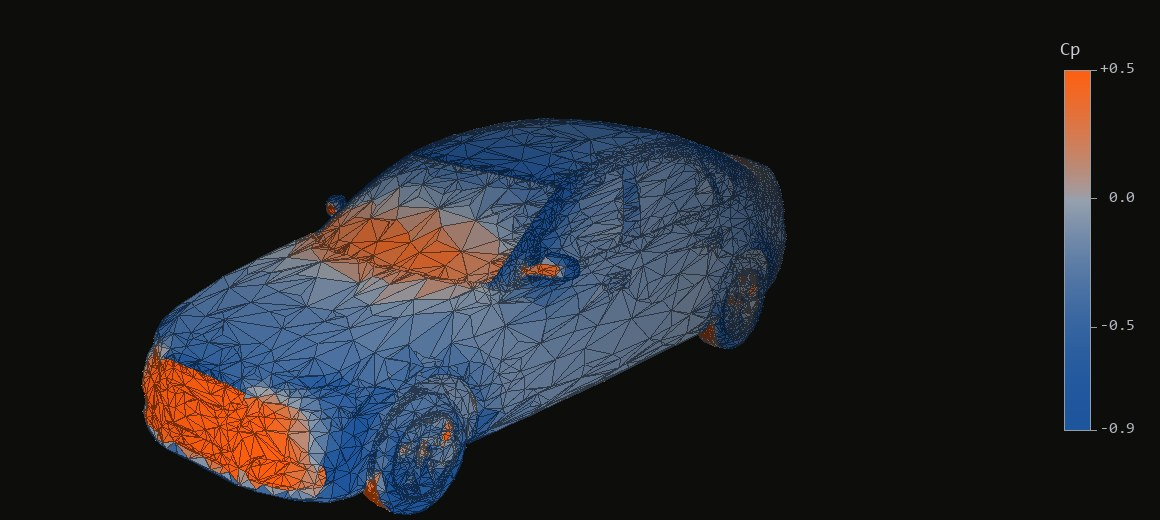
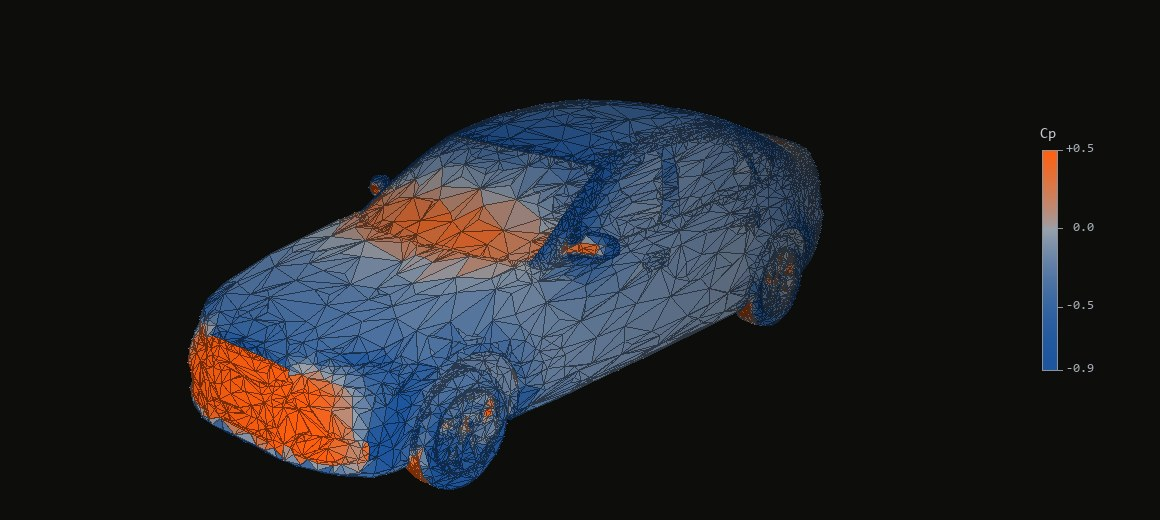
Cp panel: car centered up-right, smaller inset colorbar
Car shifted to cx 0.485 / cy 0.42 so it sits centered instead of low-
left; colorbar narrowed (15px) and pulled inward with smaller labels.
Cp arrays cached for fast future re-renders. panel ?v=4, pages v47.

Changed region(s): [[0.1241, 0.1846, 0.7138, 1.0], [0.9, 0.0923, 0.9931, 0.8308]]

diff --git a/index.html b/index.html
@@ -320,7 +320,7 @@
               <img src="assets/auto-zoom.jpg?v=3" alt="" />
             </figure>
             <figure class="xsec__panel">
-              <img src="assets/auto-cp.jpg?v=3" alt="" />
+              <img src="assets/auto-cp.jpg?v=4" alt="" />
             </figure>
           </div>
         </div>
@@ -452,7 +452,7 @@
   <script src="https://cdnjs.cloudflare.com/ajax/libs/pako/2.1.0/pako.min.js" defer></script>
   <script src="airfoil.js?v=9" defer></script>
   <script src="site.js?v=9" defer></script>
-  <script src="pages.js?v=46" defer></script>
+  <script src="pages.js?v=47" defer></script>
   <script src="waitlist.js?v=9" defer></script>
 </body>
 </html>

diff --git a/orange.html b/orange.html
@@ -321,7 +321,7 @@
               <img src="assets/auto-zoom.jpg?v=3" alt="" />
             </figure>
             <figure class="xsec__panel">
-              <img src="assets/auto-cp.jpg?v=3" alt="" />
+              <img src="assets/auto-cp.jpg?v=4" alt="" />
             </figure>
           </div>
         </div>
@@ -453,7 +453,7 @@
   <script src="https://cdnjs.cloudflare.com/ajax/libs/pako/2.1.0/pako.min.js" defer></script>
   <script src="airfoil.js?v=9" defer></script>
   <script src="site.js?v=9" defer></script>
-  <script src="pages.js?v=46" defer></script>
+  <script src="pages.js?v=47" defer></script>
   <script src="waitlist.js?v=9" defer></script>
 </body>
 </html>

diff --git a/steel.html b/steel.html
@@ -321,7 +321,7 @@
               <img src="assets/auto-zoom.jpg?v=3" alt="" />
             </figure>
             <figure class="xsec__panel">
-              <img src="assets/auto-cp.jpg?v=3" alt="" />
+              <img src="assets/auto-cp.jpg?v=4" alt="" />
             </figure>
           </div>
         </div>
@@ -453,7 +453,7 @@
   <script src="https://cdnjs.cloudflare.com/ajax/libs/pako/2.1.0/pako.min.js" defer></script>
   <script src="airfoil.js?v=9" defer></script>
   <script src="site.js?v=9" defer></script>
-  <script src="pages.js?v=46" defer></script>
+  <script src="pages.js?v=47" defer></script>
   <script src="waitlist.js?v=9" defer></script>
 </body>
 </html>

diff --git a/technology.html b/technology.html
@@ -244,7 +244,7 @@
 
   <script src="https://cdn.jsdelivr.net/npm/lenis@1.1.20/dist/lenis.min.js" defer></script>
   <script src="site.js?v=9" defer></script>
-  <script src="pages.js?v=46" defer></script>
+  <script src="pages.js?v=47" defer></script>
   <script src="waitlist.js?v=9" defer></script>
 </body>
 </html>

diff --git a/contact.html b/contact.html
@@ -77,7 +77,7 @@
 
   <script src="https://cdn.jsdelivr.net/npm/lenis@1.1.20/dist/lenis.min.js" defer></script>
   <script src="site.js?v=9" defer></script>
-  <script src="pages.js?v=46" defer></script>
+  <script src="pages.js?v=47" defer></script>
   <script src="waitlist.js?v=9" defer></script>
 </body>
 </html>
